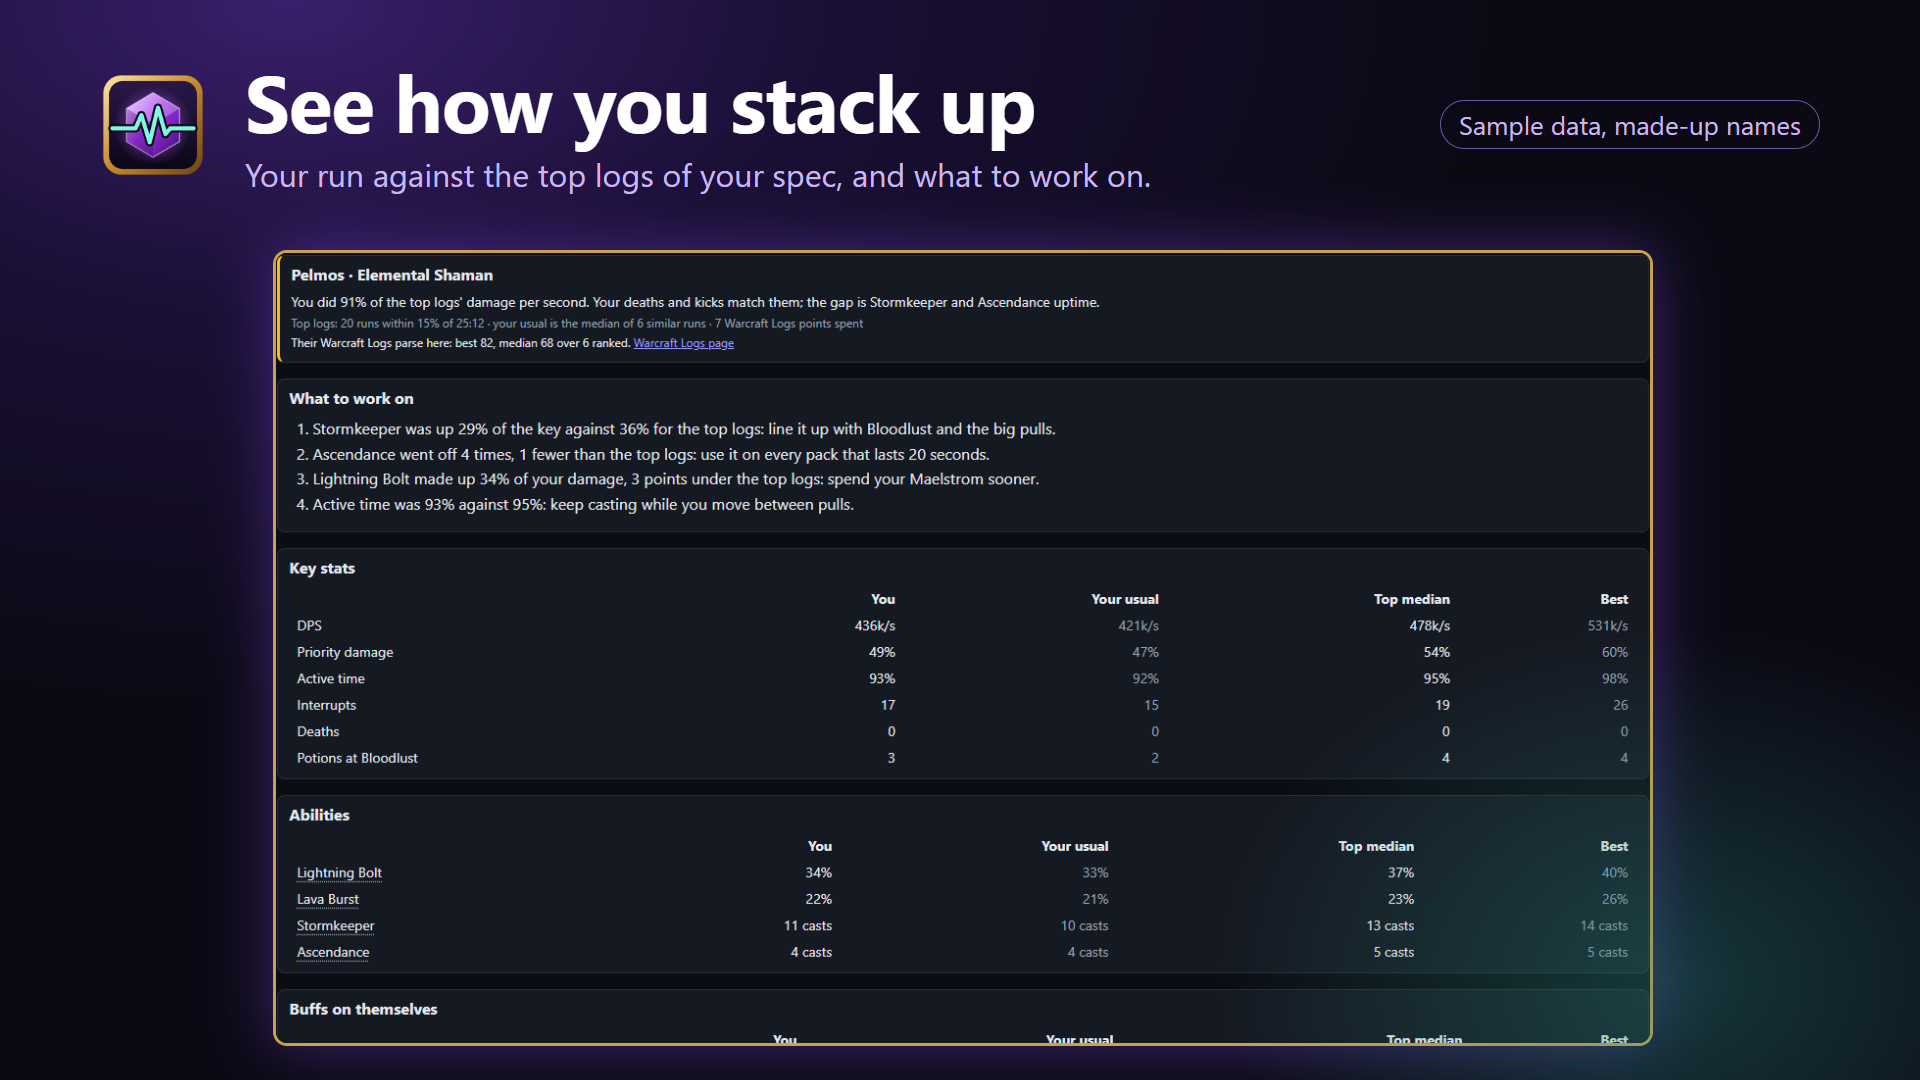
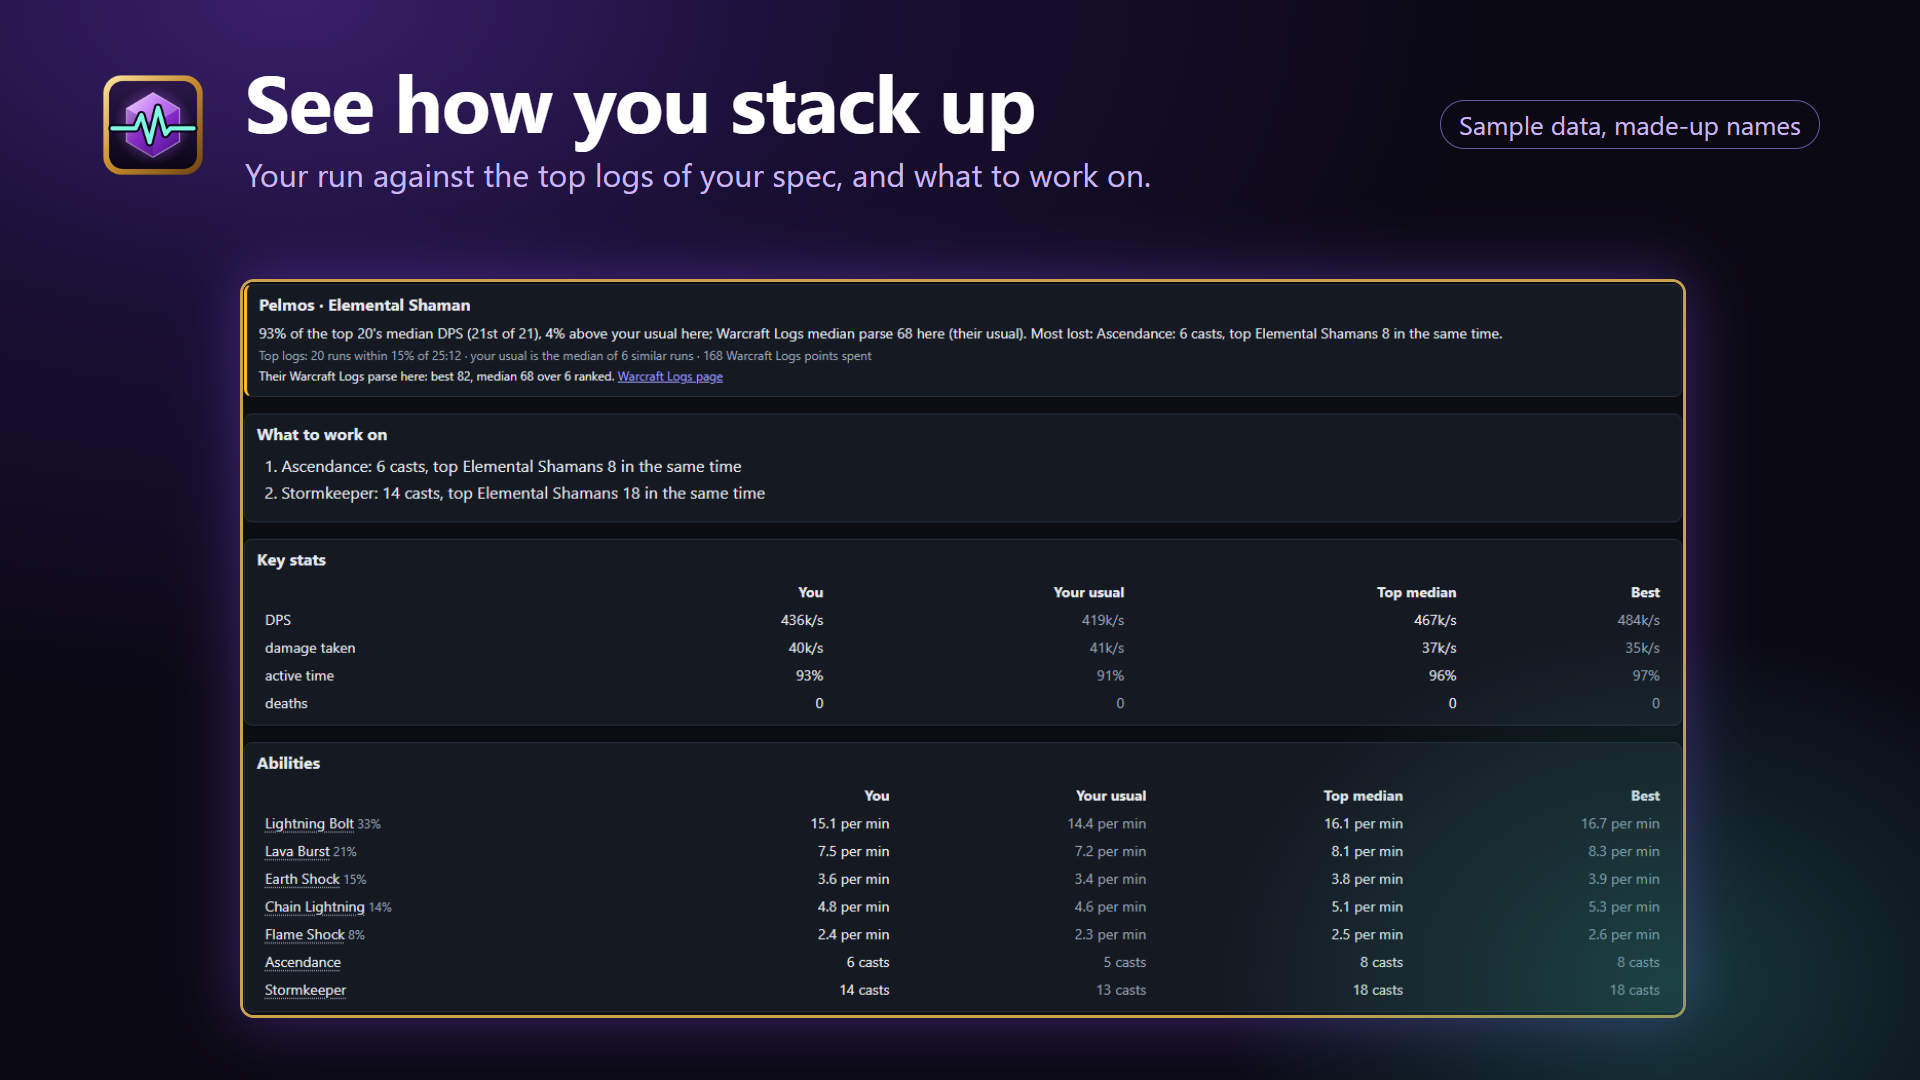
Address review: real-wording Compare screenshot, privacy hosts, credits
The Compare screenshot now comes from the app's own buildCompare output (sample
runs, made-up names) instead of hand-written text. The privacy policy drops the
GitHub hosts only the build-time cmd tools call. Credits add Raidbots and
wago.tools; the listing no longer merges the key and compare reviews' claims.

diff --git a/frontend/src/Home.tsx b/frontend/src/Home.tsx
@@ -56,9 +56,10 @@ export function Home({
         <AtAGlance character={character} />
         <StoragePanel view={view} onSaved={onSaved} />
         <p className="muted small">
-          World of Warcraft is a trademark of Blizzard Entertainment; WoW Live isn&apos;t affiliated with Blizzard. Maps
-          and patrols: Keystone.guru. Routes and enemies: Mythic Dungeon Tools. Raid maps and top runs: Warcraft Logs.
-          Timers: Raider.IO. Spell text and icons: Wowhead.
+          World of Warcraft is a trademark of Blizzard Entertainment; WoW Live isn&apos;t affiliated with or endorsed by
+          Blizzard. Maps and patrols: Keystone.guru. Routes and enemies: Mythic Dungeon Tools. Talent trees: Raidbots.
+          Raid map edges: wago.tools. Raid maps and top runs: Warcraft Logs. Timers: Raider.IO. Spell text and icons:
+          Wowhead.
         </p>
       </div>
     </>

diff --git a/docs/store-listing.md b/docs/store-listing.md
@@ -29,8 +29,8 @@ DURING THE KEY
 AFTER EVERY KEY
 • Death recaps: the last 10 seconds before each death, with every hit, heal and shield, and the defensive that was
   still ready.
-• See how you compare: each player against the top runs of their spec on Warcraft Logs (DPS, kicks, deaths, potions,
-  buffs, talents), with up to four things to work on.
+• See how you compare: each player against the top runs of their spec on Warcraft Logs (DPS, abilities, buffs,
+  talents), with up to five things to work on.
 • A "Fix next key" list and a timeline of every pull, death, Bloodlust and cooldown.
 • A replay on the dungeon's map, synced to the meters.
 • Routes: import a Mythic Dungeon Tools route and see which pulls you skipped.
@@ -46,8 +46,8 @@ YOUR SEASON
 
 PRIVATE
 It isn't an addon and doesn't touch the game: it only reads the log file the game writes on your PC. No account, no
-ads, no tracking. Your combat log never leaves your PC; only a character name you ask it to look up goes to Warcraft
-Logs.
+ads, no tracking. Your combat log never leaves your PC; Warcraft Logs only sees the characters you look up or
+review.
 
 START IN A MINUTE
 1. In the game, turn on Advanced Combat Logging (Options > System > Network).
@@ -60,8 +60,8 @@ github.com/steezy2/wow-live-app
 
 World of Warcraft is a trademark of Blizzard Entertainment. WoW Live isn't affiliated with or endorsed by Blizzard,
 and the game's spell names, text and icons belong to Blizzard. Dungeon maps and patrols are Keystone.guru's, routes
-and enemies Mythic Dungeon Tools', raid maps and top runs Warcraft Logs', season timers Raider.IO's and spell text
-and icons Wowhead's.
+and enemies Mythic Dungeon Tools', talent trees Raidbots', raid map edges wago.tools', raid maps and top runs
+Warcraft Logs', season timers Raider.IO's and spell text and icons Wowhead's.
 
 ## Product features (up to 20, shown as a list)
 
@@ -97,7 +97,7 @@ payoff). Each screen shows one thing, large; crop to it rather than showing a wh
 | # | File | Headline | Screen | Status |
 |---|---|---|---|---|
 | 1 | `1-live.png` | Your Mythic+ key, live | Live page mid-key with the overlay over it | Made |
-| 2 | `4-death.png` | Every death, explained | A death recap: the health graph large over the hits and heals, the ready defensive named | Made (the last 10 seconds, health falling to 0%) |
+| 2 | `4-death.png` | Every death, explained | A death recap: each hit and heal as a health bar falling to 0%, the ready defensive named | Made (the last 10 seconds, health falling to 0%) |
 | 3 | `compare.png` | See how you stack up | Compare tab: verdict, the "work on" list, key stats and abilities against the top logs | Made, sample data |
 | 4 | `2-key.png` | Know why your key depleted | Fix next key and Timeline | Made |
 | 5 | `3-raid.png` | Fix the wipe before the next pull | A raid pull's Fix next pull and early deaths | Made |
@@ -120,10 +120,13 @@ Center's *Trailers* (1920 × 1080 MP4, with a 1920 × 1080 thumbnail).
 ## Before each submission
 
 - Privacy policy URL: `https://github.com/steezy2/wow-live-app/blob/main/PRIVACY.md`. It lists every host the app
-  calls (checked against the code on 2026-11-16: Warcraft Logs, Raider.IO, Keystone.guru and MDT through GitHub,
-  Wowhead and its icon host); add a new host there in the same change.
+  calls at runtime (checked against the code on 2026-11-16: Warcraft Logs and its image server, Raider.IO,
+  Keystone.guru's map tiles, Wowhead and its icon host); the build-time `cmd/` tools call others (GitHub, Raidbots,
+  wago.tools) that the app doesn't. Add a new runtime host there in the same change.
 - The manifest asks only for `internetClient` and `runFullTrust` (a desktop app). Don't add a capability the app
   doesn't use.
 - Licence: PolyForm Noncommercial 1.0.0 for the source; the Store copy is free. The credits above must match the
   Home tab's credit line and the README.
+- Keystone.guru's repository has no licence and its terms reserve all rights, so the maps and data are used
+  without a written permission. Ask the author (their GitHub issues or Discord) and keep the reply here.
 - Age rating: no user-generated content, no purchases, no ads.

diff --git a/docs/video-script.md b/docs/video-script.md
@@ -4,7 +4,7 @@ Two videos to record later: a 50 second trailer for the Store page and a 3 minut
 Record at 1920 × 1080, 30 fps, from a replay of a real key (`go run ./cmd/site --replay PATH --key 2 --speed 30`, or
 the app on a real night) with made-up names, as the screenshots do. Use the app's dark theme. No Blizzard footage,
 logos or music; use royalty-free music or none. A voice-over reads the lines in **bold**; on-screen text is in
-*italics*. Replace "free" claims only if the price changes.
+*italics*. If the price changes, update the "free" lines.
 
 ## Trailer (50 s, Store page)
 
@@ -14,7 +14,7 @@ The Store autoplays it muted, so every beat has captions and the video works wit
 |---|---|---|
 | 0-4 | Black, then a key's timer ticking red past 30:00 | **"Your key just depleted. Why?"** *Why did it deplete?* |
 | 4-10 | The live page mid-key, overlay over the game | **"WoW Live reads your combat log as you play."** *Live timer, forces, odds* |
-| 10-18 | Click a death: the last 10 seconds, health graph, hits, the ready defensive highlighted | **"Every death explained: the hit, the heal, the defensive you didn't press."** *Every death, explained* |
+| 10-18 | Click a death: the last 10 seconds, health bars falling, hits, heals, the ready defensive highlighted | **"Every death explained: the hit, the heal, the defensive you didn't press."** *Every death, explained* |
 | 18-26 | Compare tab: you against the top logs, bars and the "work on" list | **"See how you stack up against the top runs of your spec."** *Compare with the top runs* (sample data) |
 | 26-32 | Fix next key list, then the Timeline scrubbing | **"Then a short list of what to fix next key."** *Fix next key* |
 | 32-38 | Raid pull: early deaths and mechanics failed | **"Raiding? The same for every pull."** *Fix the wipe before the next pull* |

diff --git a/README.md b/README.md
@@ -66,7 +66,7 @@ Settings, saved keys and raid pulls, and the log are in the Store package's own 
 - **Releases:** a `v*` tag packs `WoW Live.msix` (`backend/cmd/app/msix/pack.sh`) on GitHub Actions, with the identity from Partner Center's *Product identity* page in the repo's `MSIX_NAME`, `MSIX_PUBLISHER` and `MSIX_PUBLISHER_NAME` variables, keeps it on a release here and submits it to the Microsoft Store, which signs it (the `store` job, once the repo's `STORE_PRODUCT_ID` variable and the Entra secrets are set; it submits without an approval step, and fails while a submission made by hand in Partner Center is in progress).
 - **Icon:** `backend/cmd/appicon/icon.svg` (and `icon-small.svg` under 48 px), rendered to the committed PNGs by `render.sh`. Original art, no Blizzard logos.
 
-World of Warcraft is a trademark of Blizzard Entertainment; this project isn't affiliated with Blizzard, and the game's spell and talent icons, names and text it shows belong to Blizzard. Dungeon maps and patrols are Keystone.guru's, routes and enemy data Mythic Dungeon Tools', raid maps Warcraft Logs', season timers Raider.IO's and spell text and icons Wowhead's; the app downloads them for you and credits them on the Home tab.
+World of Warcraft is a trademark of Blizzard Entertainment; this project isn't affiliated with or endorsed by Blizzard, and the game's spell and talent icons, names and text it shows belong to Blizzard. Dungeon maps and patrols are Keystone.guru's, routes and enemies Mythic Dungeon Tools', talent trees Raidbots', raid map edges wago.tools', raid maps and top runs Warcraft Logs', season timers Raider.IO's and spell text and icons Wowhead's. The map images, timers, spell text and icons are downloaded as you use the app; the rest ships inside it. The Home tab credits them.
 
 ## Licence
 

diff --git a/CHANGELOG.md b/CHANGELOG.md
@@ -6,10 +6,10 @@ What changed, newest first. Each PR adds its lines under `[Unreleased]`.
 
 ### Changed
 - **Store listing rewritten** shorter, with a new Compare screenshot (sample data) and a death recap showing health falling to 0%, leading with death recaps and the comparison with top runs; `docs/video-script.md` has a 50 s trailer and a 3 min walkthrough script.
-- **Credits**: the Home tab now carries the Blizzard disclaimer and credits for Keystone.guru, Mythic Dungeon Tools, Warcraft Logs, Raider.IO and Wowhead (the README said the page credited them); the Store manifest's description mentions raid pulls.
+- **Credits**: the Home tab now carries the Blizzard disclaimer and credits for Keystone.guru, Mythic Dungeon Tools, Raidbots, wago.tools, Warcraft Logs, Raider.IO and Wowhead (the README said the page credited them); the Store manifest's description mentions raid pulls.
 
 ### Fixed
-- **Privacy policy** lists the two hosts it missed: `wow.zamimg.com` (spell and talent icons) and `api.github.com` (Mythic Dungeon Tools' data).
+- **Privacy policy** lists `wow.zamimg.com` (spell and talent icons), which it missed, and drops the GitHub hosts: only the build-time `cmd/mplusref` calls them, the app doesn't.
 
 ## [0.5.1] - 2026-11-16
 

diff --git a/PRIVACY.md b/PRIVACY.md
@@ -16,7 +16,7 @@ WoW Live downloads public game data. None of these requests include anything fro
 
 - **Warcraft Logs** (warcraftlogs.com), when you've entered API keys: top runs for a dungeon, key level and spec to compare against, and the name and realm of a character, to list its public reports and download their fights (when you import or look up your own runs) or to read its parses (when you run a player review, for the player you picked, who can be anyone in your group). See Warcraft Logs' own privacy policy.
 - **Raider.IO** (raider.io): the season's dungeon timers and this week's affixes, for your region.
-- **Keystone.guru** and **Mythic Dungeon Tools**, through GitHub (api.github.com, raw.githubusercontent.com) and assets.keystone.guru: dungeon map images, enemy patrols and each dungeon's enemies and routes.
+- **Keystone.guru** (assets.keystone.guru): dungeon map images.
 - **Wowhead** (nether.wowhead.com and wow.zamimg.com): the text of a spell when you hover its name, and the icons of talents and spells.
 - **Warcraft Logs' image server** (assets.rpglogs.com): raid room map images, for the raid replay.
 
